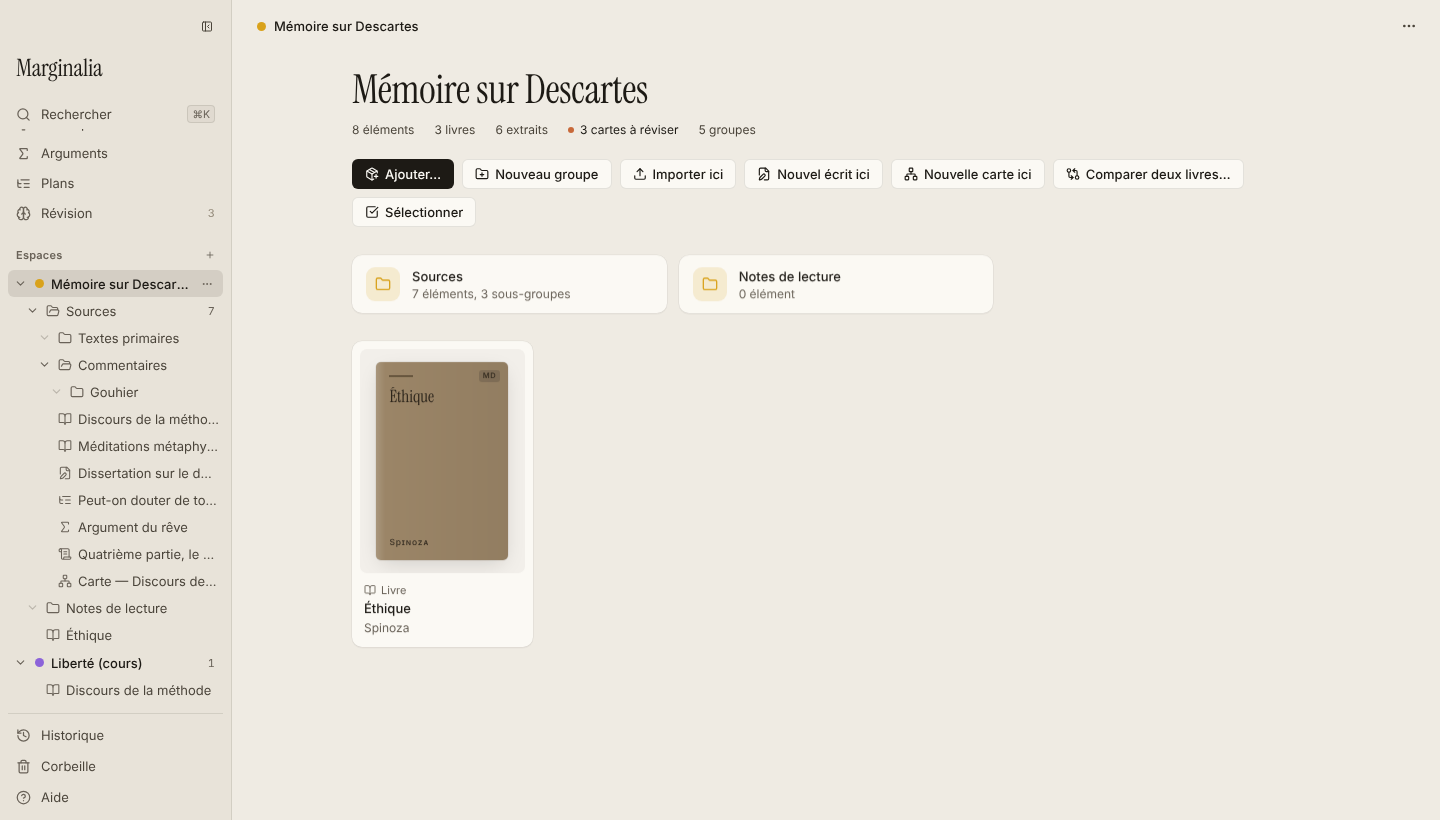
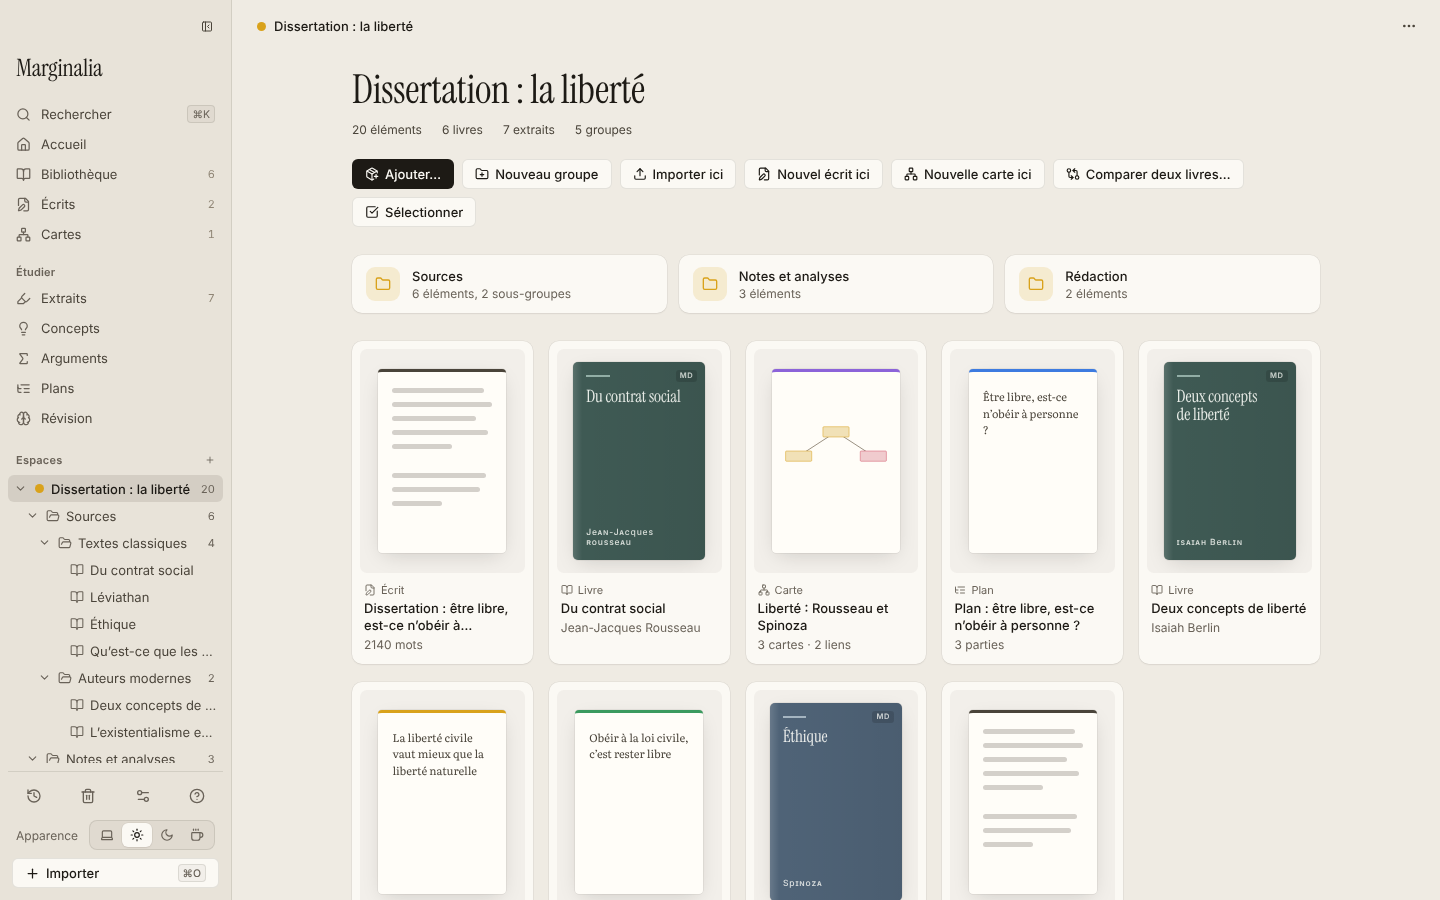
Site : écrire le livre à côté, espace de travail plus fourni, Rousseau en activité dans chaque section
Claude-Session: https://claude.ai/code/session_01Sei4Hk5zrYgyioUhAQVXiS

diff --git a/site/src/main.tsx b/site/src/main.tsx
@@ -1,34 +1,55 @@
 import { StrictMode, useEffect, useRef, useState } from 'react';
 import { createRoot } from 'react-dom/client';
 import { Sprite, anchorOf, VB_H, VB_W, type Pose } from '../../src/features/mascot/Sprite';
+import { extraPose } from '../../src/features/mascot/activities';
 import { rousseau } from '../../src/features/mascot/characters/rousseau';
 import { DOWNLOADS, VERSION, type Download } from './downloads';
 import './site.css';
 
-// Cadence de chaque pose (images par seconde), comme dans l'app.
-const FPS: Partial<Record<string, number>> = { sitwave: 8, read: 4, herborize: 4, wave: 8, write: 4, think: 3 };
+// Cadence de chaque pose (images par seconde), comme dans l'app ; activités : leur propre cadence.
+const FPS: Partial<Record<string, number>> = { sitwave: 8, read: 4, wave: 8, write: 4, think: 3, jump: 8, walk: 8, doze: 2 };
+const fpsOf = (p: Pose) => FPS[p] ?? extraPose(p)?.fps ?? 4;
 const reduced = () => typeof matchMedia === 'function' && matchMedia('(prefers-reduced-motion: reduce)').matches;
 
-/** Rousseau, dessiné et animé par le moteur de l'app. `seq` : poses jouées l'une après l'autre (ms). */
-function Rousseau({ seq, size, className }: { seq: [Pose, number][]; size: number; className?: string }) {
+/**
+ * Rousseau, dessiné et animé par le moteur de l'app. `seq` : activités jouées l'une après l'autre (ms).
+ * `poke` : un clic le fait sauter puis passer à l'activité suivante.
+ */
+function Rousseau({ seq, size, className, poke, facing }: { seq: [Pose, number][]; size: number; className?: string; poke?: boolean; facing?: 1 | -1 }) {
   const [i, setI] = useState(0);
   const [frame, setFrame] = useState(0);
-  const pose = seq[i % seq.length][0];
+  const [jumping, setJumping] = useState(false);
+  const pose: Pose = jumping ? 'jump' : seq[i % seq.length][0];
+  const seqKey = JSON.stringify(seq);
+  useEffect(() => { setI(0); setFrame(0); }, [seqKey]);
   useEffect(() => {
     if (reduced()) return;
-    const t = setInterval(() => setFrame((f) => f + 1), 1000 / (FPS[pose] ?? 4));
+    const t = setInterval(() => setFrame((f) => f + 1), 1000 / fpsOf(pose));
     return () => clearInterval(t);
   }, [pose]);
   useEffect(() => {
-    if (seq.length < 2 || reduced()) return;
+    if (seq.length < 2 || reduced() || jumping) return;
     const t = setTimeout(() => { setI((x) => x + 1); setFrame(0); }, seq[i % seq.length][1]);
     return () => clearTimeout(t);
-  }, [i, seq]);
+  }, [i, seqKey, jumping]);
+  useEffect(() => {
+    if (!jumping) return;
+    const t = setTimeout(() => { setJumping(false); setI((x) => x + 1); setFrame(0); }, 900);
+    return () => clearTimeout(t);
+  }, [jumping]);
   const h = (size * VB_H) / VB_W;
+  const style = { width: `${size / 16}rem`, height: `${h / 16}rem`, ['--anchor' as string]: `${(anchorOf(pose) / VB_H) * (h / 16)}rem` };
+  const sprite = <Sprite pose={pose} frame={frame} level={2} character={rousseau} facing={facing} />;
+  // tailles en rem : la mascotte suit l'échelle fluide de la page
+  if (poke && !reduced())
+    return (
+      <button type="button" className={`${className ?? ''} rousseau-poke`} style={style} onClick={() => { setJumping(true); setFrame(0); }} aria-label="Rousseau : cliquez pour qu’il change d’activité">
+        {sprite}
+      </button>
+    );
   return (
-    // tailles en rem : la mascotte suit l'échelle fluide de la page
-    <span className={className} style={{ width: `${size / 16}rem`, height: `${h / 16}rem`, ['--anchor' as string]: `${(anchorOf(pose) / VB_H) * (h / 16)}rem` }} aria-hidden="true">
-      <Sprite pose={pose} frame={frame} level={2} character={rousseau} />
+    <span className={className} style={style} aria-hidden="true">
+      {sprite}
     </span>
   );
 }
@@ -82,7 +103,7 @@ function AnnotatedPage() {
   );
   return (
     <figure className="page" aria-label="Exemple : le début du Contrat social, annoté dans Marginalia">
-      <Rousseau className="page-rousseau" size={150} seq={[['sitwave', 2600], ['read', 7000], ['think', 2600], ['read', 6000]]} />
+      <Rousseau className="page-rousseau" size={150} poke seq={HERO_SEQ} />
       <div className="page-body">
         <p className="page-ref">Rousseau, <cite>Du contrat social</cite>, I, 1</p>
         <p>
@@ -106,6 +127,9 @@ function AnnotatedPage() {
     </figure>
   );
 }
+
+const HERO_SEQ: [Pose, number][] = [['sitwave', 2600], ['read', 6500], ['write', 5500], ['question', 4000], ['coffee', 6000], ['spyglass', 4500], ['juggle', 5000], ['think', 3000]];
+const TAB_SEQS: [Pose, number][][] = [[['read', 60000]], [['classify', 60000]], [['write', 60000]]];
 
 const STEPS = [
   {
@@ -149,6 +173,7 @@ function Showcase() {
   const playing = auto && visible && !reduced();
   return (
     <section className="showcase reveal" id="apercu" aria-label="Aperçu de l’app" ref={ref}>
+      <div className="showcase-head">
       <div className="tabs" role="tablist" aria-label="Étapes du travail">
         {STEPS.map((x, i) => (
           <button key={x.title} role="tab" id={`tab-${x.shot}`} aria-selected={i === k} aria-controls="showcase-panel" className={i === k ? 'is-on' : ''} onClick={() => { setK(i); setAuto(false); }}>
@@ -156,6 +181,8 @@ function Showcase() {
             {i === k && playing && <span className="tab-progress" key={k} style={{ animationDuration: `${AUTO_MS}ms` }} aria-hidden="true" />}
           </button>
         ))}
+      </div>
+      <Rousseau className="showcase-rousseau" size={92} seq={TAB_SEQS[k]} />
       </div>
       <div className="showcase-panel" id="showcase-panel" role="tabpanel" aria-labelledby={`tab-${s.shot}`}>
         <p className="showcase-text" key={s.shot}>{s.text}</p>
@@ -239,6 +266,7 @@ const MORE: { icon: string; title: string; items: string[] }[] = [
       'Plans de dissertation nourris de vos extraits et arguments',
       'Traitement de texte au format Word (.docx)',
       'Notes de bas de page, notes privées, commentaires en marge',
+      'Le livre, les extraits ou le plan ouverts à côté de l’écrit',
       'Citer en écrivant : chaque citation reste reliée à son passage',
       'Correcteur orthographique, pinceau, plan déplaçable',
       'Mode concentration et machine à écrire',
@@ -313,8 +341,26 @@ function App() {
 
         <Showcase />
 
+        <section className="cote reveal" aria-labelledby="cote-title">
+          <div className="cote-text">
+            <h2 id="cote-title">Écrire, le livre ouvert à côté</h2>
+            <p>
+              Pendant que vous écrivez, ouvrez à côté le vrai livre, vos extraits, vos concepts ou votre plan. Sélectionnez un passage et
+              citez-le : la citation reste reliée à sa page, et un ⌘-clic dessus vous y ramène.
+            </p>
+            <p>Le partage de l’écran se règle à la souris, ou d’un clic en deux moitiés égales.</p>
+          </div>
+          <div className="shot-wrap">
+            <img className="cote-shot" src="/captures/cote.png" alt="Une dissertation dans l’éditeur, le Discours de la méthode ouvert à côté" width={1440} height={900} loading="lazy" />
+            <Rousseau className="cote-rousseau" size={100} seq={[['write', 8000], ['read', 6000]]} />
+          </div>
+        </section>
+
         <section className="spaces reveal" aria-labelledby="spaces-title">
-          <img className="spaces-shot" src="/captures/espaces.png" alt="Un espace de travail « Mémoire sur Descartes », avec ses groupes et sous-groupes" width={1440} height={820} loading="lazy" />
+          <div className="shot-wrap">
+            <img className="spaces-shot" src="/captures/espaces.png" alt="Un espace de travail « Dissertation : la liberté », avec ses livres, écrits, plans et cartes rangés en groupes" width={1440} height={900} loading="lazy" />
+            <Rousseau className="spaces-rousseau" size={110} seq={[['juggle', 7000], ['classify', 6000]]} />
+          </div>
           <div className="spaces-text">
             <h2 id="spaces-title">Un espace par cours, par dissertation</h2>
             <p>
@@ -335,7 +381,10 @@ function App() {
             <p>Un livre ajouté sur votre iPhone ou votre iPad arrive tout seul. Rien n’est jamais modifié dans Livres.</p>
             <p className="books-note">Livres achetés avec protection (DRM) exclus.</p>
           </div>
+          <div className="shot-wrap books-wrap">
+          <Rousseau className="books-rousseau" size={100} seq={[['plane', 6500], ['read', 5000]]} />
           <img className="books-shot" src="/captures/livres.png" alt="La fenêtre Livres d’Apple de Marginalia : choix des livres et correspondance des couleurs" width={560} height={503} loading="lazy" />
+          </div>
         </section>
 
         <section className="more reveal" id="fonctions" aria-labelledby="more-title">
@@ -356,7 +405,7 @@ function App() {
         </section>
 
         <section className="private reveal">
-          <Rousseau className="private-rousseau" size={150} seq={[['herborize', 9000], ['read', 6000]]} />
+          <Rousseau className="private-rousseau" size={150} seq={[['herborize', 9000], ['meditate', 7000]]} />
           <div>
             <h2>Rien ne quitte votre ordinateur</h2>
             <p>
@@ -417,6 +466,9 @@ function App() {
         </section>
       </main>
 
+      <div className="walker" aria-hidden="true">
+        <Rousseau className="walker-rousseau" size={70} seq={[['walk', 60000]]} />
+      </div>
       <footer className="foot">
         <p>Marginalia {VERSION}. Fait pour les élèves de terminale, les étudiants et tous les lecteurs de philosophie.</p>
       </footer>

diff --git a/site/src/site.css b/site/src/site.css
@@ -287,3 +287,52 @@ a.btn-primary:hover { background: #3a342b; }
 @keyframes page-in { from { opacity: 0; transform: translateY(1rem) rotate(0.6deg); } to { opacity: 1; transform: none; } }
 @keyframes rise { from { opacity: 0; transform: translateY(0.75rem); } to { opacity: 1; transform: none; } }
 @keyframes fade { from { opacity: 0; } to { opacity: 1; } }
+
+/* ── Rousseau dans les sections ── */
+.rousseau-poke { background: none; border: 0; padding: 0; cursor: pointer; color: var(--ink); }
+.rousseau-poke:focus-visible { outline-offset: 0.25rem; border-radius: 0.5rem; }
+.page-rousseau.rousseau-poke { pointer-events: auto; }
+[class$="-rousseau"] svg, .rousseau-poke svg { width: 100%; height: 100%; display: block; overflow: visible; }
+.shot-wrap { position: relative; }
+.showcase-head { display: flex; align-items: flex-end; justify-content: space-between; gap: 1rem; }
+.showcase-rousseau { display: block; color: var(--ink); margin-bottom: -0.5rem; }
+.cote-rousseau, .spaces-rousseau, .books-rousseau { position: absolute; display: block; color: var(--ink); top: calc(-1 * var(--anchor)); pointer-events: none; }
+.cote-rousseau { right: 2.5rem; }
+.spaces-rousseau { left: 2rem; }
+.books-wrap { justify-self: end; width: 100%; max-width: 35rem; }
+.books-rousseau { right: 2rem; }
+.books-wrap .books-shot { max-width: none; }
+
+/* ── Écrire, le livre à côté ── */
+.cote {
+  max-width: 75rem; margin: 9rem auto 0; padding: 0 var(--gutter);
+  display: grid; grid-template-columns: minmax(0, 4fr) minmax(0, 7fr); gap: 4.5rem; align-items: center;
+}
+.cote h2 { font-size: 3.5rem; }
+.cote p { margin: 1rem 0 0; color: var(--ink-2); max-width: 40ch; }
+.cote-shot { width: 100%; height: auto; border-radius: 0.75rem; box-shadow: var(--shadow-lg); display: block; }
+.spaces-shot { display: block; }
+
+/* ── Rousseau qui traverse le bas de la page ── */
+.walker { position: relative; height: 5.8rem; overflow: hidden; margin-top: 3rem; }
+.walker-rousseau { position: absolute; bottom: 0; left: 0; display: block; color: var(--ink); animation: walk-across 32s linear infinite; }
+@keyframes walk-across { from { transform: translateX(-6rem); } to { transform: translateX(100vw); } }
+@media (prefers-reduced-motion: reduce) { .walker { display: none; } }
+
+@media (max-width: 900px) {
+  .cote { grid-template-columns: minmax(0, 1fr); }
+  .books-wrap { justify-self: start; }
+}
+@media (max-width: 620px) {
+  .cote { margin-top: 6rem; }
+  .cote h2 { font-size: 2.5rem; }
+  .showcase-rousseau { display: none; }
+}
+/* Petits écrans : place au-dessus des captures et de la page pour Rousseau debout */
+@media (max-width: 900px) {
+  .cote .shot-wrap, .spaces .shot-wrap, .books-wrap { margin-top: 7.5rem; }
+  .spaces .shot-wrap { order: 1; }
+}
+@media (max-width: 620px) {
+  .page { margin-top: 10rem; }
+}
